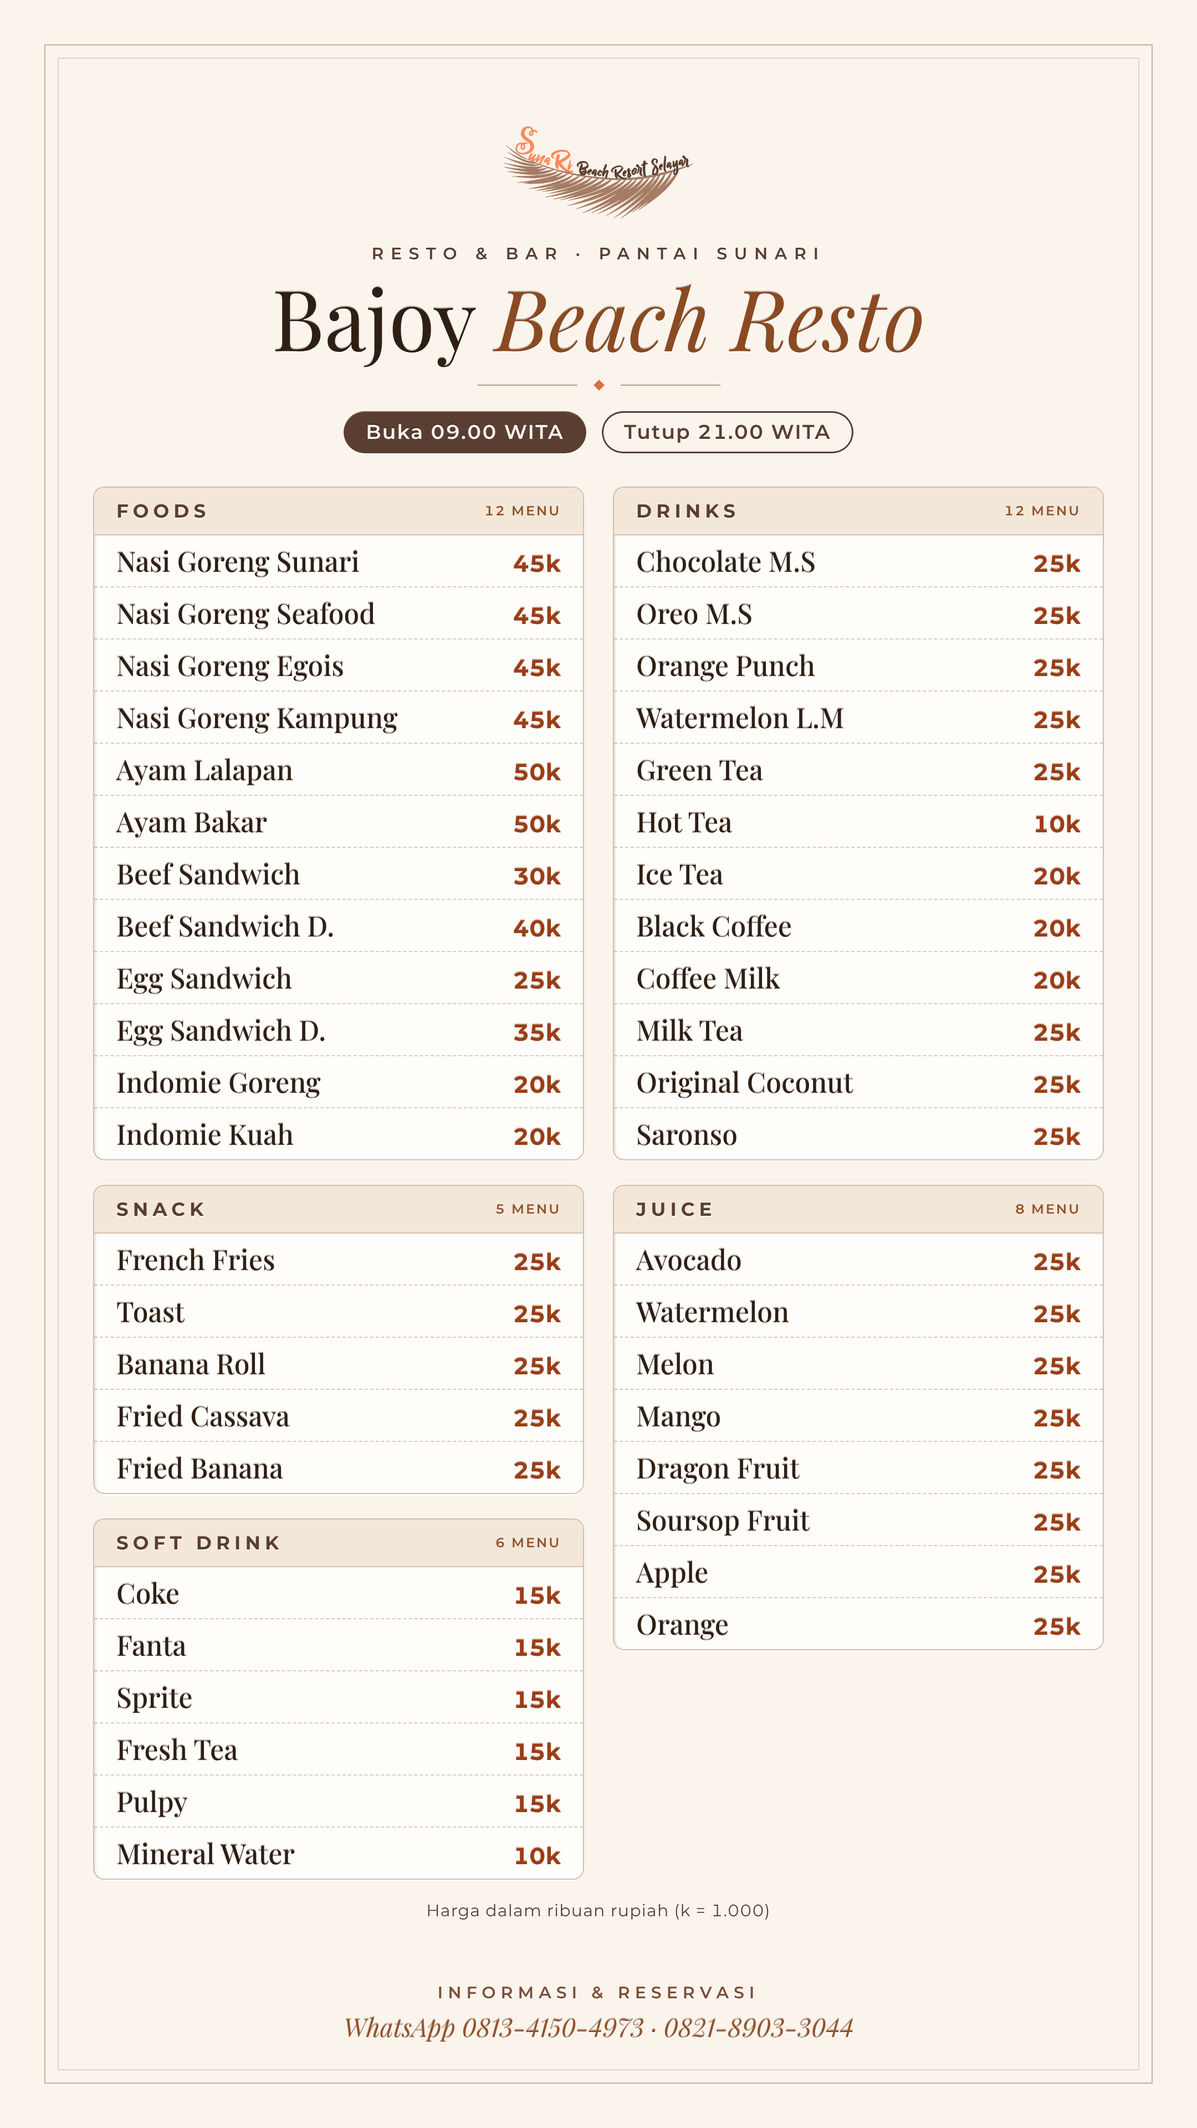
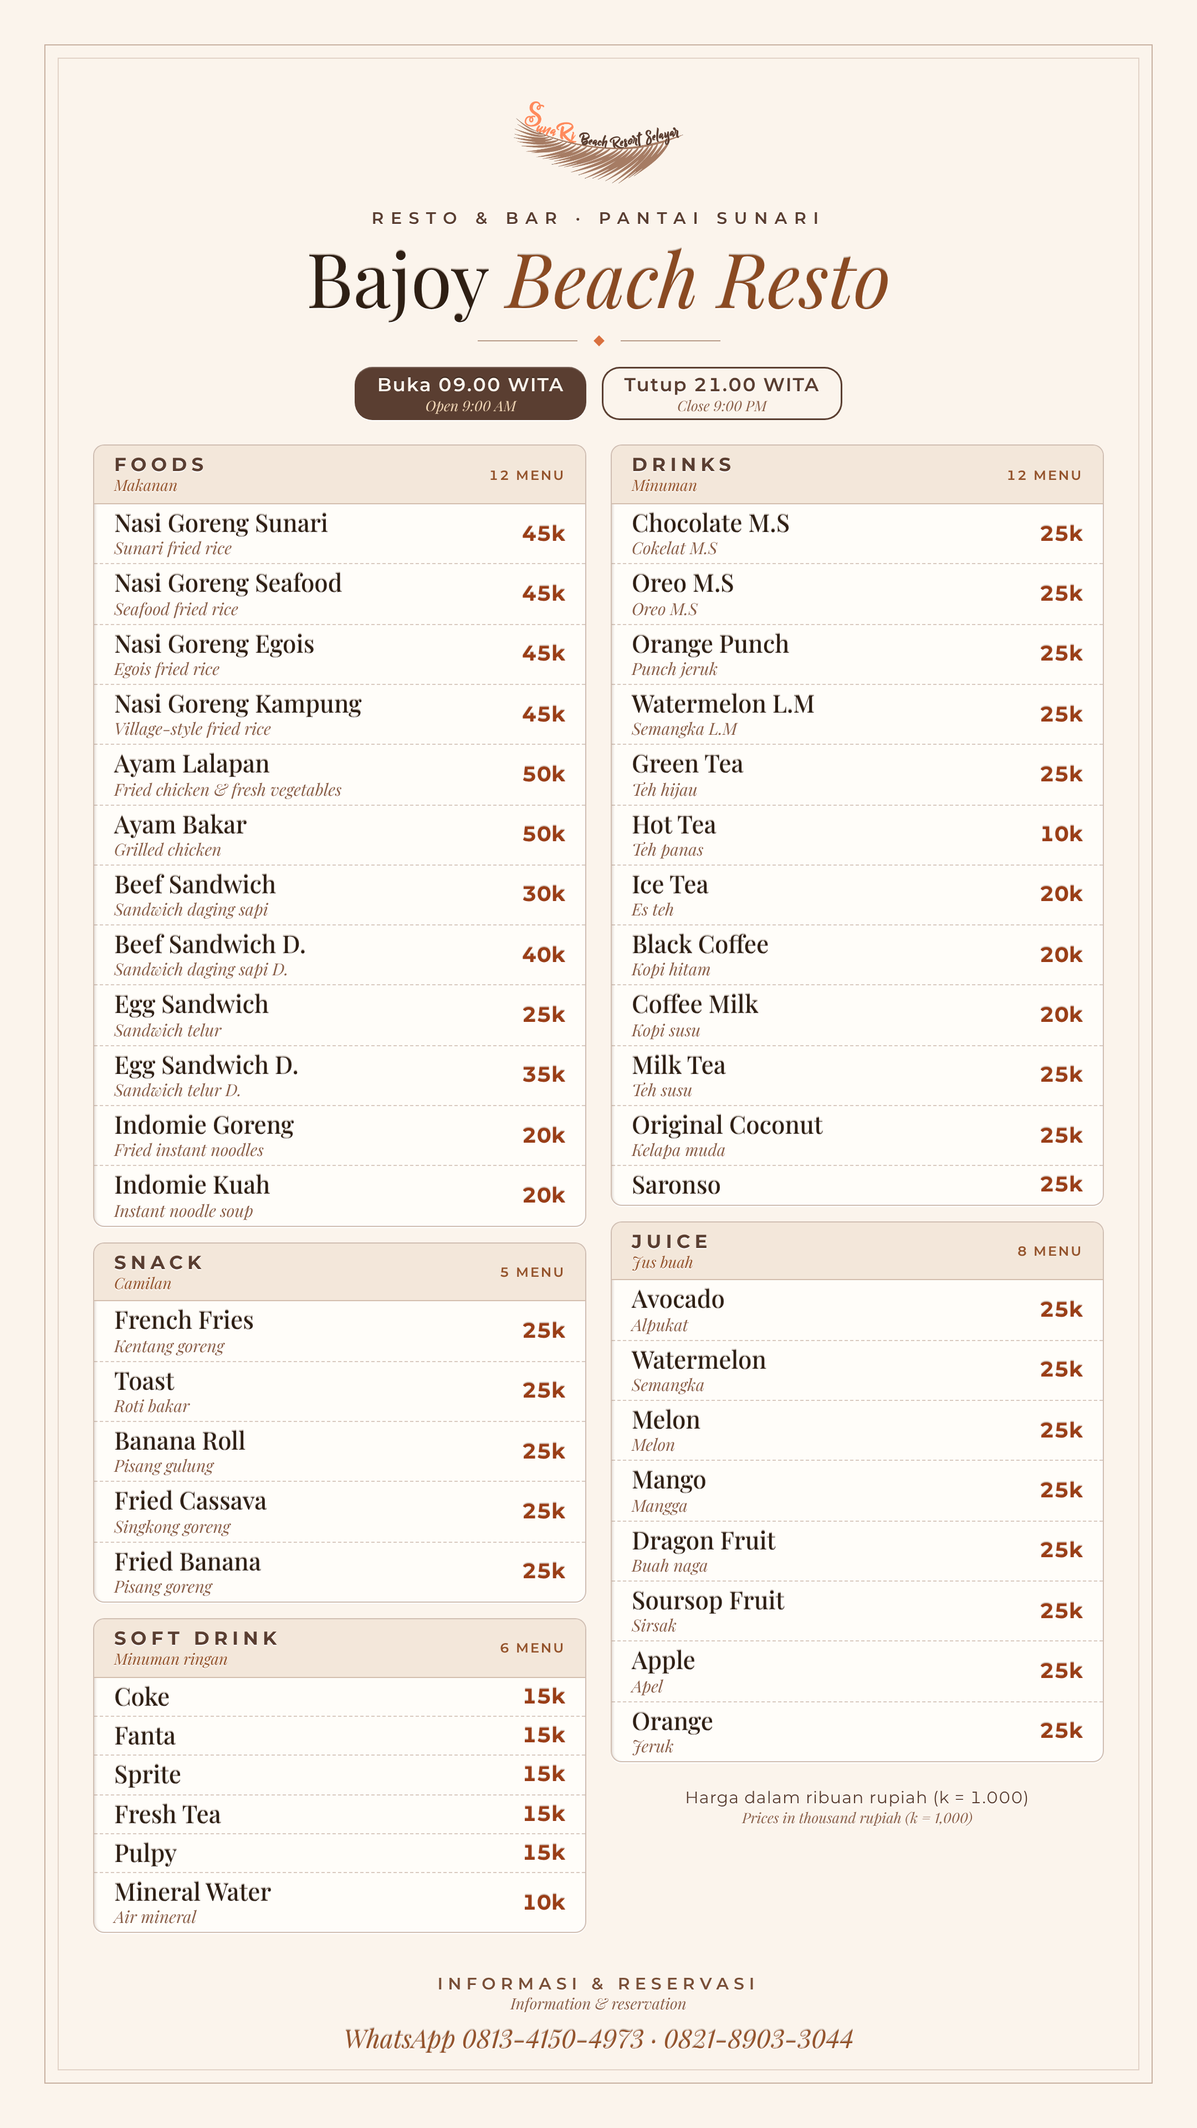
Menu Bajoy: terjemahan dwibahasa di bawah setiap item, kategori, jam & footer (PNG HD)
Claude-Session: https://claude.ai/code/session_01KeLc5eBGUnchV5ne3wvwHX

Changed region(s): [[0.062, 0.0312, 0.9306, 0.9688]]

diff --git a/resto/menu-bajoy-wa/menu_bajoy.html b/resto/menu-bajoy-wa/menu_bajoy.html
@@ -37,11 +37,22 @@ h1 i,.ft .s{color:#8A4A22}
 .note{font-size:15px}
 .ft .t{font-weight:600;font-size:15px;letter-spacing:.3em;text-transform:uppercase;color:#7A5038}
 .ft .s{font-family:'Playfair Display',serif;font-style:italic;font-size:23px;color:#94532B;margin-top:6px}
+/* terjemahan di bawah setiap teks */
+.en{display:block;font-family:'Playfair Display',serif;font-style:italic;font-weight:400;letter-spacing:0;text-transform:none;font-size:15px;line-height:1.2;color:#8A5F48;text-shadow:0 1px 0 #fff;margin-top:1px}
+.row{padding:4px 18px 5px!important;align-items:center!important}
+.row .n{font-size:22px!important;line-height:1.15!important}
+.row .p{font-size:19px!important}
+.card .hd{padding:7px 18px!important}.card .hd .en{font-size:14px;color:#94532B}
+.card{margin-bottom:14px!important}
+.cols{margin-top:22px!important;gap:22px!important}
+.hours span{display:flex;flex-direction:column;align-items:center;padding:6px 20px!important;border-radius:16px!important;font-size:17px!important}
+.hours span .en{font-size:13px;color:#F3D9B8;text-shadow:none}.hours span.o .en{color:#8A5F48}
+.in{top:88px!important}.lg{width:160px!important}h1{font-size:68px!important}
+.note .en{font-size:13px}.ft .en{font-size:14px}.ft{bottom:66px!important}
 </style></head><body><div class="pg" id="menu-bajoy"><div class="f1"></div><div class="f2"></div>
 <div class="in"><div class="top"><img class="lg" src="../../assets/logo-sunari-color.png"><div class="kick">Resto &amp; Bar · Pantai Sunari</div>
 <h1>Bajoy <i>Beach Resto</i></h1><div class="rule"><span></span><b></b><span></span></div>
-<div class="hours"><span>Buka 09.00 WITA</span><span class="o">Tutup 21.00 WITA</span></div></div>
-<div class="cols"><div><div class="card"><div class="hd"><b>Foods</b><span>12 menu</span></div><div class="row"><div class="n">Nasi Goreng Sunari</div><div class="p">45k</div></div><div class="row"><div class="n">Nasi Goreng Seafood</div><div class="p">45k</div></div><div class="row"><div class="n">Nasi Goreng Egois</div><div class="p">45k</div></div><div class="row"><div class="n">Nasi Goreng Kampung</div><div class="p">45k</div></div><div class="row"><div class="n">Ayam Lalapan</div><div class="p">50k</div></div><div class="row"><div class="n">Ayam Bakar</div><div class="p">50k</div></div><div class="row"><div class="n">Beef Sandwich</div><div class="p">30k</div></div><div class="row"><div class="n">Beef Sandwich D.</div><div class="p">40k</div></div><div class="row"><div class="n">Egg Sandwich</div><div class="p">25k</div></div><div class="row"><div class="n">Egg Sandwich D.</div><div class="p">35k</div></div><div class="row"><div class="n">Indomie Goreng</div><div class="p">20k</div></div><div class="row"><div class="n">Indomie Kuah</div><div class="p">20k</div></div></div><div class="card"><div class="hd"><b>Snack</b><span>5 menu</span></div><div class="row"><div class="n">French Fries</div><div class="p">25k</div></div><div class="row"><div class="n">Toast</div><div class="p">25k</div></div><div class="row"><div class="n">Banana Roll</div><div class="p">25k</div></div><div class="row"><div class="n">Fried Cassava</div><div class="p">25k</div></div><div class="row"><div class="n">Fried Banana</div><div class="p">25k</div></div></div><div class="card"><div class="hd"><b>Soft Drink</b><span>6 menu</span></div><div class="row"><div class="n">Coke</div><div class="p">15k</div></div><div class="row"><div class="n">Fanta</div><div class="p">15k</div></div><div class="row"><div class="n">Sprite</div><div class="p">15k</div></div><div class="row"><div class="n">Fresh Tea</div><div class="p">15k</div></div><div class="row"><div class="n">Pulpy</div><div class="p">15k</div></div><div class="row"><div class="n">Mineral Water</div><div class="p">10k</div></div></div></div>
-<div><div class="card"><div class="hd"><b>Drinks</b><span>12 menu</span></div><div class="row"><div class="n">Chocolate M.S</div><div class="p">25k</div></div><div class="row"><div class="n">Oreo M.S</div><div class="p">25k</div></div><div class="row"><div class="n">Orange Punch</div><div class="p">25k</div></div><div class="row"><div class="n">Watermelon L.M</div><div class="p">25k</div></div><div class="row"><div class="n">Green Tea</div><div class="p">25k</div></div><div class="row"><div class="n">Hot Tea</div><div class="p">10k</div></div><div class="row"><div class="n">Ice Tea</div><div class="p">20k</div></div><div class="row"><div class="n">Black Coffee</div><div class="p">20k</div></div><div class="row"><div class="n">Coffee Milk</div><div class="p">20k</div></div><div class="row"><div class="n">Milk Tea</div><div class="p">25k</div></div><div class="row"><div class="n">Original Coconut</div><div class="p">25k</div></div><div class="row"><div class="n">Saronso</div><div class="p">25k</div></div></div><div class="card"><div class="hd"><b>Juice</b><span>8 menu</span></div><div class="row"><div class="n">Avocado</div><div class="p">25k</div></div><div class="row"><div class="n">Watermelon</div><div class="p">25k</div></div><div class="row"><div class="n">Melon</div><div class="p">25k</div></div><div class="row"><div class="n">Mango</div><div class="p">25k</div></div><div class="row"><div class="n">Dragon Fruit</div><div class="p">25k</div></div><div class="row"><div class="n">Soursop Fruit</div><div class="p">25k</div></div><div class="row"><div class="n">Apple</div><div class="p">25k</div></div><div class="row"><div class="n">Orange</div><div class="p">25k</div></div></div></div></div>
-<div class="note">Harga dalam ribuan rupiah (k = 1.000)</div></div>
-<div class="ft"><div class="t">Informasi &amp; reservasi</div><div class="s">WhatsApp 0813-4150-4973 · 0821-8903-3044</div></div></div></body></html>
+<div class="hours"><span>Buka 09.00 WITA<i class="en">Open 9:00 AM</i></span><span class="o">Tutup 21.00 WITA<i class="en">Close 9:00 PM</i></span></div></div>
+<div class="cols"><div><div class="card"><div class="hd"><div><b>Foods</b><div class="en">Makanan</div></div><span>12 menu</span></div><div class="row"><div><div class="n">Nasi Goreng Sunari</div><div class=en>Sunari fried rice</div></div><div class="p">45k</div></div><div class="row"><div><div class="n">Nasi Goreng Seafood</div><div class=en>Seafood fried rice</div></div><div class="p">45k</div></div><div class="row"><div><div class="n">Nasi Goreng Egois</div><div class=en>Egois fried rice</div></div><div class="p">45k</div></div><div class="row"><div><div class="n">Nasi Goreng Kampung</div><div class=en>Village-style fried rice</div></div><div class="p">45k</div></div><div class="row"><div><div class="n">Ayam Lalapan</div><div class=en>Fried chicken &amp; fresh vegetables</div></div><div class="p">50k</div></div><div class="row"><div><div class="n">Ayam Bakar</div><div class=en>Grilled chicken</div></div><div class="p">50k</div></div><div class="row"><div><div class="n">Beef Sandwich</div><div class=en>Sandwich daging sapi</div></div><div class="p">30k</div></div><div class="row"><div><div class="n">Beef Sandwich D.</div><div class=en>Sandwich daging sapi D.</div></div><div class="p">40k</div></div><div class="row"><div><div class="n">Egg Sandwich</div><div class=en>Sandwich telur</div></div><div class="p">25k</div></div><div class="row"><div><div class="n">Egg Sandwich D.</div><div class=en>Sandwich telur D.</div></div><div class="p">35k</div></div><div class="row"><div><div class="n">Indomie Goreng</div><div class=en>Fried instant noodles</div></div><div class="p">20k</div></div><div class="row"><div><div class="n">Indomie Kuah</div><div class=en>Instant noodle soup</div></div><div class="p">20k</div></div></div><div class="card"><div class="hd"><div><b>Snack</b><div class="en">Camilan</div></div><span>5 menu</span></div><div class="row"><div><div class="n">French Fries</div><div class=en>Kentang goreng</div></div><div class="p">25k</div></div><div class="row"><div><div class="n">Toast</div><div class=en>Roti bakar</div></div><div class="p">25k</div></div><div class="row"><div><div class="n">Banana Roll</div><div class=en>Pisang gulung</div></div><div class="p">25k</div></div><div class="row"><div><div class="n">Fried Cassava</div><div class=en>Singkong goreng</div></div><div class="p">25k</div></div><div class="row"><div><div class="n">Fried Banana</div><div class=en>Pisang goreng</div></div><div class="p">25k</div></div></div><div class="card"><div class="hd"><div><b>Soft Drink</b><div class="en">Minuman ringan</div></div><span>6 menu</span></div><div class="row"><div><div class="n">Coke</div></div><div class="p">15k</div></div><div class="row"><div><div class="n">Fanta</div></div><div class="p">15k</div></div><div class="row"><div><div class="n">Sprite</div></div><div class="p">15k</div></div><div class="row"><div><div class="n">Fresh Tea</div></div><div class="p">15k</div></div><div class="row"><div><div class="n">Pulpy</div></div><div class="p">15k</div></div><div class="row"><div><div class="n">Mineral Water</div><div class=en>Air mineral</div></div><div class="p">10k</div></div></div></div>
+<div><div class="card"><div class="hd"><div><b>Drinks</b><div class="en">Minuman</div></div><span>12 menu</span></div><div class="row"><div><div class="n">Chocolate M.S</div><div class=en>Cokelat M.S</div></div><div class="p">25k</div></div><div class="row"><div><div class="n">Oreo M.S</div><div class=en>Oreo M.S</div></div><div class="p">25k</div></div><div class="row"><div><div class="n">Orange Punch</div><div class=en>Punch jeruk</div></div><div class="p">25k</div></div><div class="row"><div><div class="n">Watermelon L.M</div><div class=en>Semangka L.M</div></div><div class="p">25k</div></div><div class="row"><div><div class="n">Green Tea</div><div class=en>Teh hijau</div></div><div class="p">25k</div></div><div class="row"><div><div class="n">Hot Tea</div><div class=en>Teh panas</div></div><div class="p">10k</div></div><div class="row"><div><div class="n">Ice Tea</div><div class=en>Es teh</div></div><div class="p">20k</div></div><div class="row"><div><div class="n">Black Coffee</div><div class=en>Kopi hitam</div></div><div class="p">20k</div></div><div class="row"><div><div class="n">Coffee Milk</div><div class=en>Kopi susu</div></div><div class="p">20k</div></div><div class="row"><div><div class="n">Milk Tea</div><div class=en>Teh susu</div></div><div class="p">25k</div></div><div class="row"><div><div class="n">Original Coconut</div><div class=en>Kelapa muda</div></div><div class="p">25k</div></div><div class="row"><div><div class="n">Saronso</div></div><div class="p">25k</div></div></div><div class="card"><div class="hd"><div><b>Juice</b><div class="en">Jus buah</div></div><span>8 menu</span></div><div class="row"><div><div class="n">Avocado</div><div class=en>Alpukat</div></div><div class="p">25k</div></div><div class="row"><div><div class="n">Watermelon</div><div class=en>Semangka</div></div><div class="p">25k</div></div><div class="row"><div><div class="n">Melon</div><div class=en>Melon</div></div><div class="p">25k</div></div><div class="row"><div><div class="n">Mango</div><div class=en>Mangga</div></div><div class="p">25k</div></div><div class="row"><div><div class="n">Dragon Fruit</div><div class=en>Buah naga</div></div><div class="p">25k</div></div><div class="row"><div><div class="n">Soursop Fruit</div><div class=en>Sirsak</div></div><div class="p">25k</div></div><div class="row"><div><div class="n">Apple</div><div class=en>Apel</div></div><div class="p">25k</div></div><div class="row"><div><div class="n">Orange</div><div class=en>Jeruk</div></div><div class="p">25k</div></div></div><div class="note" style="margin-top:22px">Harga dalam ribuan rupiah (k = 1.000)<div class="en">Prices in thousand rupiah (k = 1,000)</div></div></div></div></div>
+<div class="ft"><div class="t">Informasi &amp; reservasi</div><div class="en">Information &amp; reservation</div><div class="s">WhatsApp 0813-4150-4973 · 0821-8903-3044</div></div></div></body></html>

diff --git a/resto/menu-bajoy-wa/build.py b/resto/menu-bajoy-wa/build.py
@@ -6,16 +6,22 @@ import pathlib
 H = pathlib.Path(__file__).parent
 LOGO = "../../assets/logo-sunari-color.png"
 FONTS = '<link href="https://fonts.googleapis.com/css2?family=Playfair+Display:ital,wght@0,400;0,500;1,400&family=Montserrat:wght@400;500;600;700&display=swap" rel="stylesheet">'
-FOODS = [("Nasi Goreng Sunari", 45), ("Nasi Goreng Seafood", 45), ("Nasi Goreng Egois", 45), ("Nasi Goreng Kampung", 45),
-         ("Ayam Lalapan", 50), ("Ayam Bakar", 50), ("Beef Sandwich", 30), ("Beef Sandwich D.", 40),
-         ("Egg Sandwich", 25), ("Egg Sandwich D.", 35), ("Indomie Goreng", 20), ("Indomie Kuah", 20)]
-SNACK = [("French Fries", 25), ("Toast", 25), ("Banana Roll", 25), ("Fried Cassava", 25), ("Fried Banana", 25)]
-DRINKS = [("Chocolate M.S", 25), ("Oreo M.S", 25), ("Orange Punch", 25), ("Watermelon L.M", 25), ("Green Tea", 25),
-          ("Hot Tea", 10), ("Ice Tea", 20), ("Black Coffee", 20), ("Coffee Milk", 20), ("Milk Tea", 25),
-          ("Original Coconut", 25), ("Saronso", 25)]
-JUICE = [("Avocado", 25), ("Watermelon", 25), ("Melon", 25), ("Mango", 25), ("Dragon Fruit", 25),
-         ("Soursop Fruit", 25), ("Apple", 25), ("Orange", 25)]
-SOFT = [("Coke", 15), ("Fanta", 15), ("Sprite", 15), ("Fresh Tea", 15), ("Pulpy", 15), ("Mineral Water", 10)]
+# (nama di menu pemilik, harga ribu, terjemahan di bawahnya: Inggris untuk nama Indonesia, Indonesia untuk nama Inggris)
+FOODS = [("Nasi Goreng Sunari", 45, "Sunari fried rice"), ("Nasi Goreng Seafood", 45, "Seafood fried rice"),
+         ("Nasi Goreng Egois", 45, "Egois fried rice"), ("Nasi Goreng Kampung", 45, "Village-style fried rice"),
+         ("Ayam Lalapan", 50, "Fried chicken &amp; fresh vegetables"), ("Ayam Bakar", 50, "Grilled chicken"),
+         ("Beef Sandwich", 30, "Sandwich daging sapi"), ("Beef Sandwich D.", 40, "Sandwich daging sapi D."),
+         ("Egg Sandwich", 25, "Sandwich telur"), ("Egg Sandwich D.", 35, "Sandwich telur D."),
+         ("Indomie Goreng", 20, "Fried instant noodles"), ("Indomie Kuah", 20, "Instant noodle soup")]
+SNACK = [("French Fries", 25, "Kentang goreng"), ("Toast", 25, "Roti bakar"), ("Banana Roll", 25, "Pisang gulung"),
+         ("Fried Cassava", 25, "Singkong goreng"), ("Fried Banana", 25, "Pisang goreng")]
+DRINKS = [("Chocolate M.S", 25, "Cokelat M.S"), ("Oreo M.S", 25, "Oreo M.S"), ("Orange Punch", 25, "Punch jeruk"),
+          ("Watermelon L.M", 25, "Semangka L.M"), ("Green Tea", 25, "Teh hijau"), ("Hot Tea", 10, "Teh panas"),
+          ("Ice Tea", 20, "Es teh"), ("Black Coffee", 20, "Kopi hitam"), ("Coffee Milk", 20, "Kopi susu"),
+          ("Milk Tea", 25, "Teh susu"), ("Original Coconut", 25, "Kelapa muda"), ("Saronso", 25, "")]
+JUICE = [("Avocado", 25, "Alpukat"), ("Watermelon", 25, "Semangka"), ("Melon", 25, "Melon"), ("Mango", 25, "Mangga"),
+         ("Dragon Fruit", 25, "Buah naga"), ("Soursop Fruit", 25, "Sirsak"), ("Apple", 25, "Apel"), ("Orange", 25, "Jeruk")]
+SOFT = [("Coke", 15, ""), ("Fanta", 15, ""), ("Sprite", 15, ""), ("Fresh Tea", 15, ""), ("Pulpy", 15, ""), ("Mineral Water", 10, "Air mineral")]
 CSS = """
 *{margin:0;padding:0;box-sizing:border-box}body{background:#bbb;font-family:Montserrat,sans-serif;-webkit-font-smoothing:antialiased;font-variant-numeric:lining-nums tabular-nums}
 .pg{position:relative;width:1080px;height:1920px;margin:20px auto;background:#FBF4EC;color:#3A2819;overflow:hidden}
@@ -55,17 +61,28 @@ h1 i,.ft .s{color:#8A4A22}
 .note{font-size:15px}
 .ft .t{font-weight:600;font-size:15px;letter-spacing:.3em;text-transform:uppercase;color:#7A5038}
 .ft .s{font-family:'Playfair Display',serif;font-style:italic;font-size:23px;color:#94532B;margin-top:6px}
+/* terjemahan di bawah setiap teks */
+.en{display:block;font-family:'Playfair Display',serif;font-style:italic;font-weight:400;letter-spacing:0;text-transform:none;font-size:15px;line-height:1.2;color:#8A5F48;text-shadow:0 1px 0 #fff;margin-top:1px}
+.row{padding:4px 18px 5px!important;align-items:center!important}
+.row .n{font-size:22px!important;line-height:1.15!important}
+.row .p{font-size:19px!important}
+.card .hd{padding:7px 18px!important}.card .hd .en{font-size:14px;color:#94532B}
+.card{margin-bottom:14px!important}
+.cols{margin-top:22px!important;gap:22px!important}
+.hours span{display:flex;flex-direction:column;align-items:center;padding:6px 20px!important;border-radius:16px!important;font-size:17px!important}
+.hours span .en{font-size:13px;color:#F3D9B8;text-shadow:none}.hours span.o .en{color:#8A5F48}
+.in{top:88px!important}.lg{width:160px!important}h1{font-size:68px!important}
+.note .en{font-size:13px}.ft .en{font-size:14px}.ft{bottom:66px!important}
 """
-def card(title, items):
-    rows = "".join(f'<div class="row"><div class="n">{n}</div><div class="p">{p}k</div></div>' for n, p in items)
-    return f'<div class="card"><div class="hd"><b>{title}</b><span>{len(items)} menu</span></div>{rows}</div>'
+def card(title, sub, items):
+    rows = "".join(f'<div class="row"><div><div class="n">{n}</div>{f"<div class=en>{e}</div>" if e else ""}</div><div class="p">{p}k</div></div>' for n, p, e in items)
+    return f'<div class="card"><div class="hd"><div><b>{title}</b><div class="en">{sub}</div></div><span>{len(items)} menu</span></div>{rows}</div>'
 HTML = f'''<div class="pg" id="menu-bajoy"><div class="f1"></div><div class="f2"></div>
 <div class="in"><div class="top"><img class="lg" src="{LOGO}"><div class="kick">Resto &amp; Bar · Pantai Sunari</div>
 <h1>Bajoy <i>Beach Resto</i></h1><div class="rule"><span></span><b></b><span></span></div>
-<div class="hours"><span>Buka 09.00 WITA</span><span class="o">Tutup 21.00 WITA</span></div></div>
-<div class="cols"><div>{card("Foods", FOODS)}{card("Snack", SNACK)}{card("Soft Drink", SOFT)}</div>
-<div>{card("Drinks", DRINKS)}{card("Juice", JUICE)}</div></div>
-<div class="note">Harga dalam ribuan rupiah (k = 1.000)</div></div>
-<div class="ft"><div class="t">Informasi &amp; reservasi</div><div class="s">WhatsApp 0813-4150-4973 · 0821-8903-3044</div></div></div>'''
+<div class="hours"><span>Buka 09.00 WITA<i class="en">Open 9:00 AM</i></span><span class="o">Tutup 21.00 WITA<i class="en">Close 9:00 PM</i></span></div></div>
+<div class="cols"><div>{card("Foods", "Makanan", FOODS)}{card("Snack", "Camilan", SNACK)}{card("Soft Drink", "Minuman ringan", SOFT)}</div>
+<div>{card("Drinks", "Minuman", DRINKS)}{card("Juice", "Jus buah", JUICE)}<div class="note" style="margin-top:22px">Harga dalam ribuan rupiah (k = 1.000)<div class="en">Prices in thousand rupiah (k = 1,000)</div></div></div></div></div>
+<div class="ft"><div class="t">Informasi &amp; reservasi</div><div class="en">Information &amp; reservation</div><div class="s">WhatsApp 0813-4150-4973 · 0821-8903-3044</div></div></div>'''
 (H / "menu_bajoy.html").write_text(f'<!doctype html><html lang="id"><head><meta charset="utf-8">{FONTS}<style>{CSS}</style></head><body>{HTML}</body></html>')
 print("ok")
